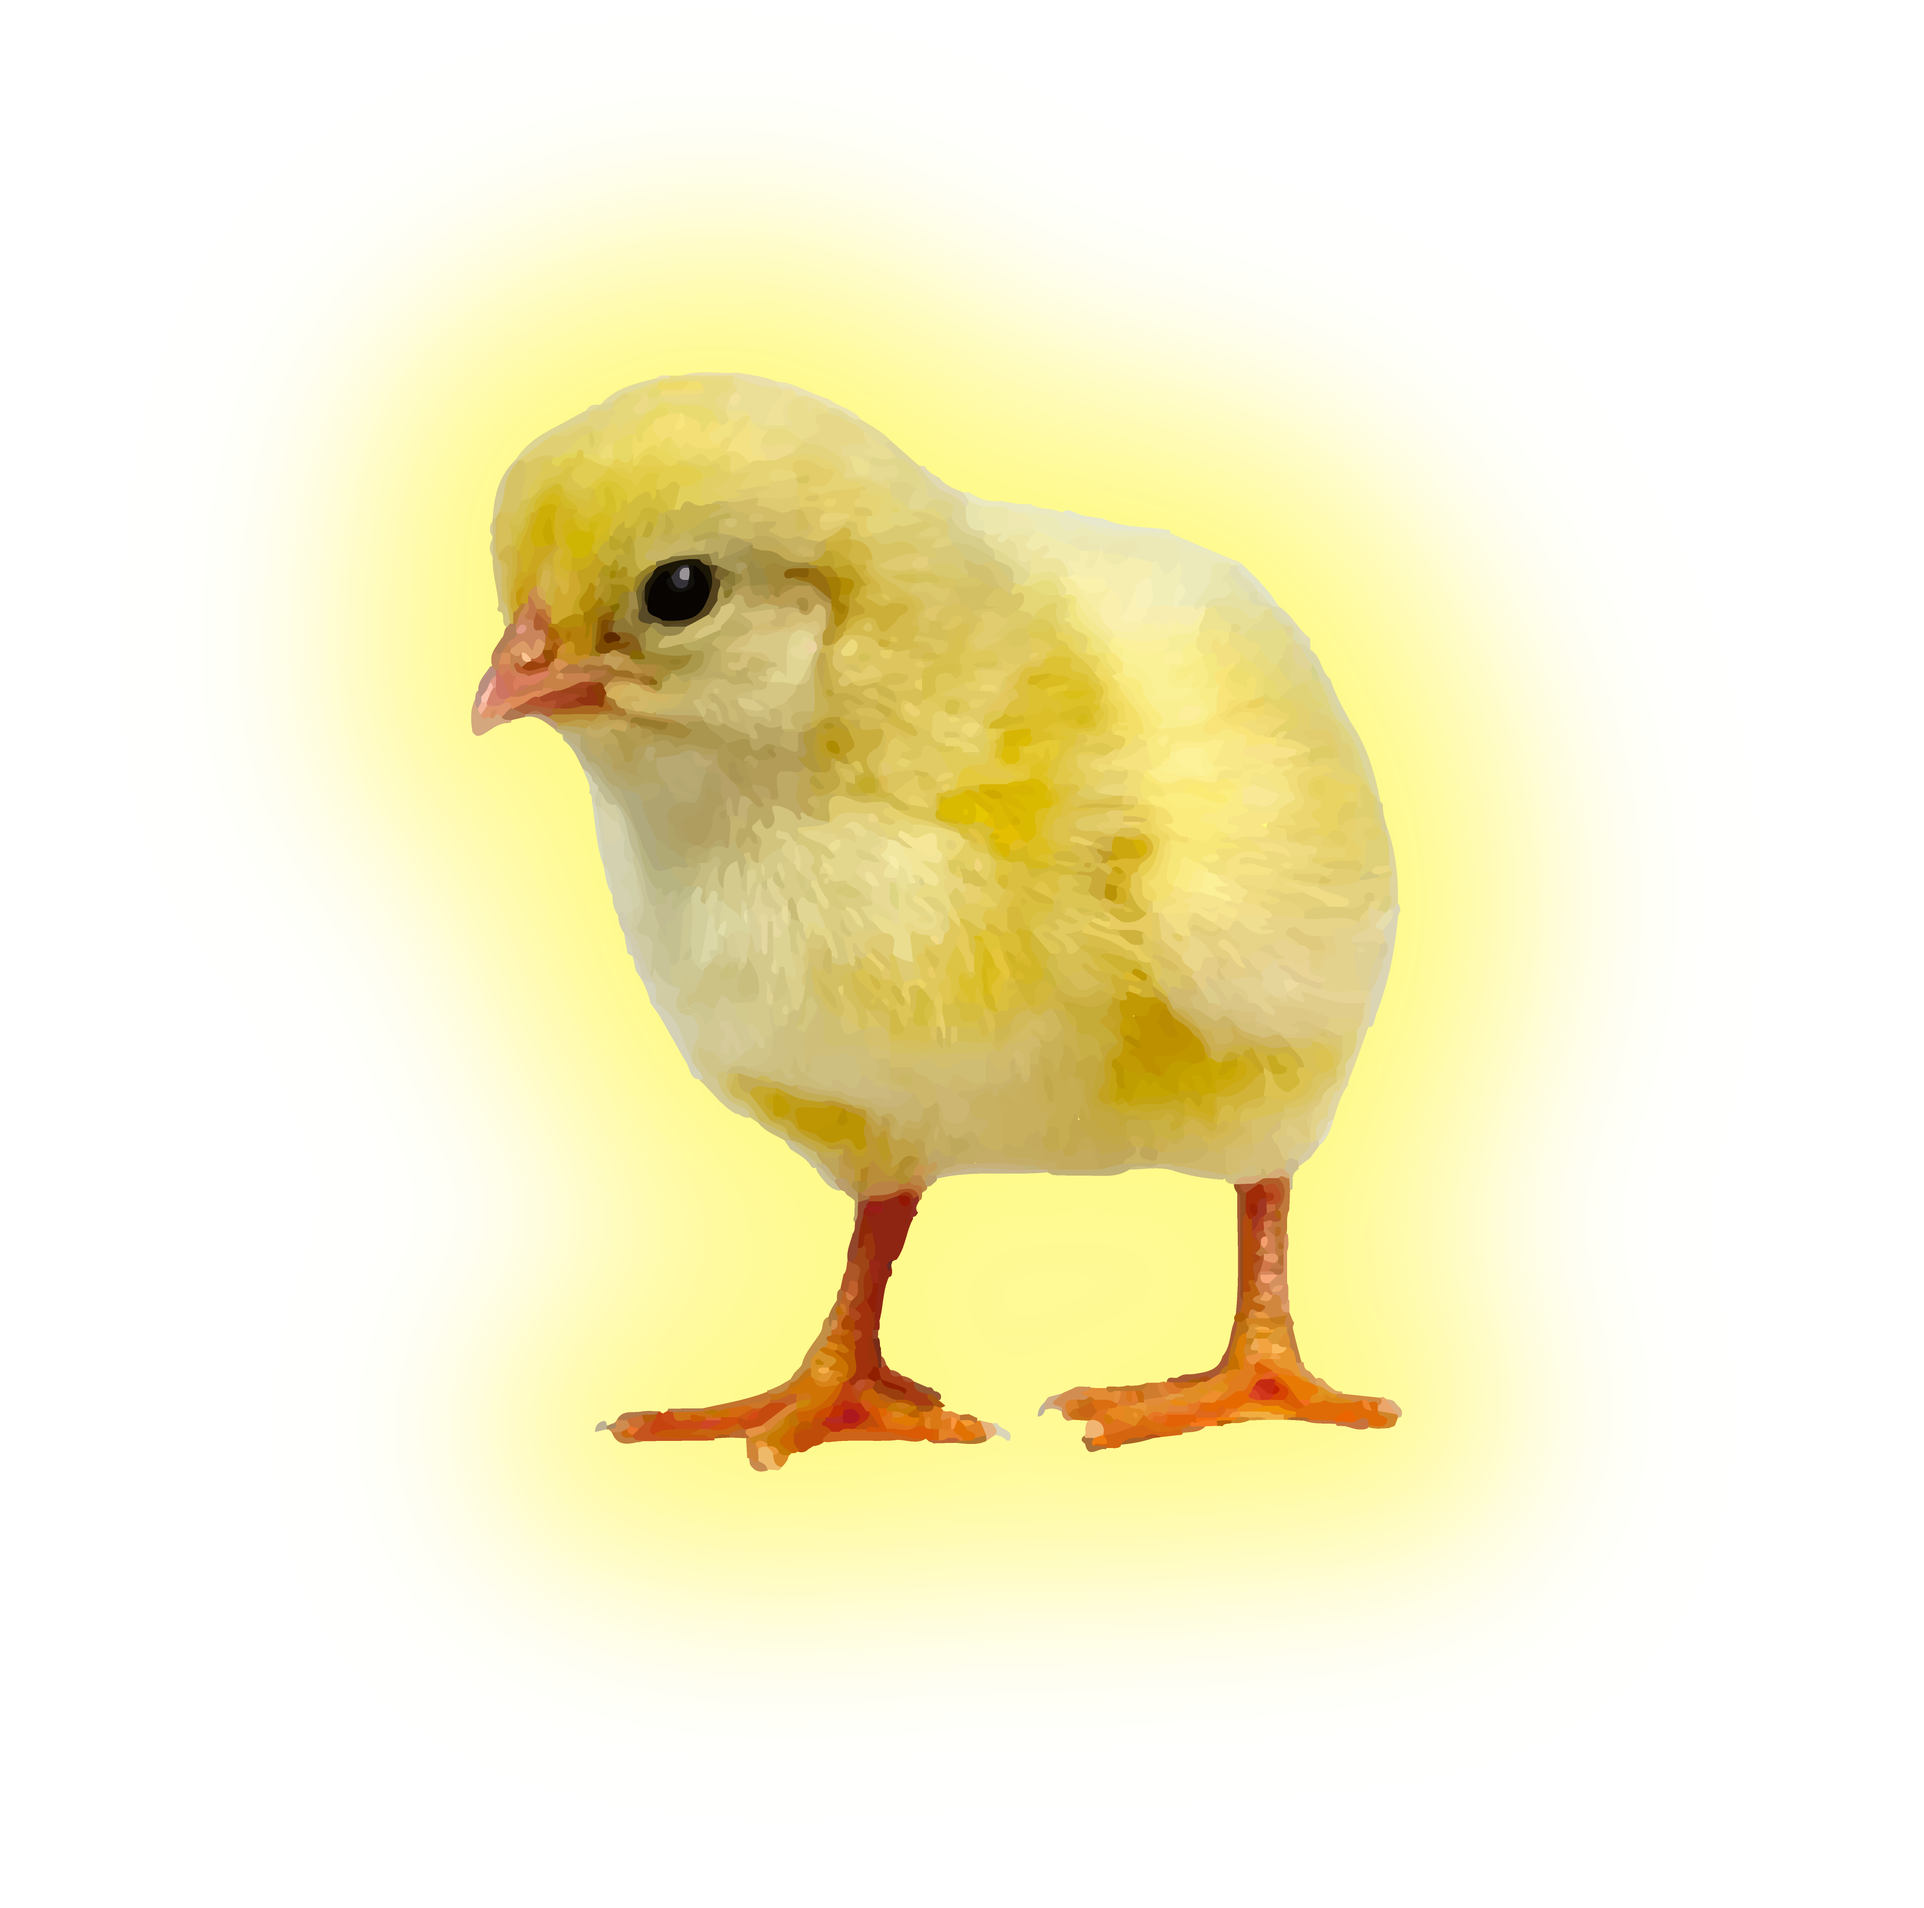
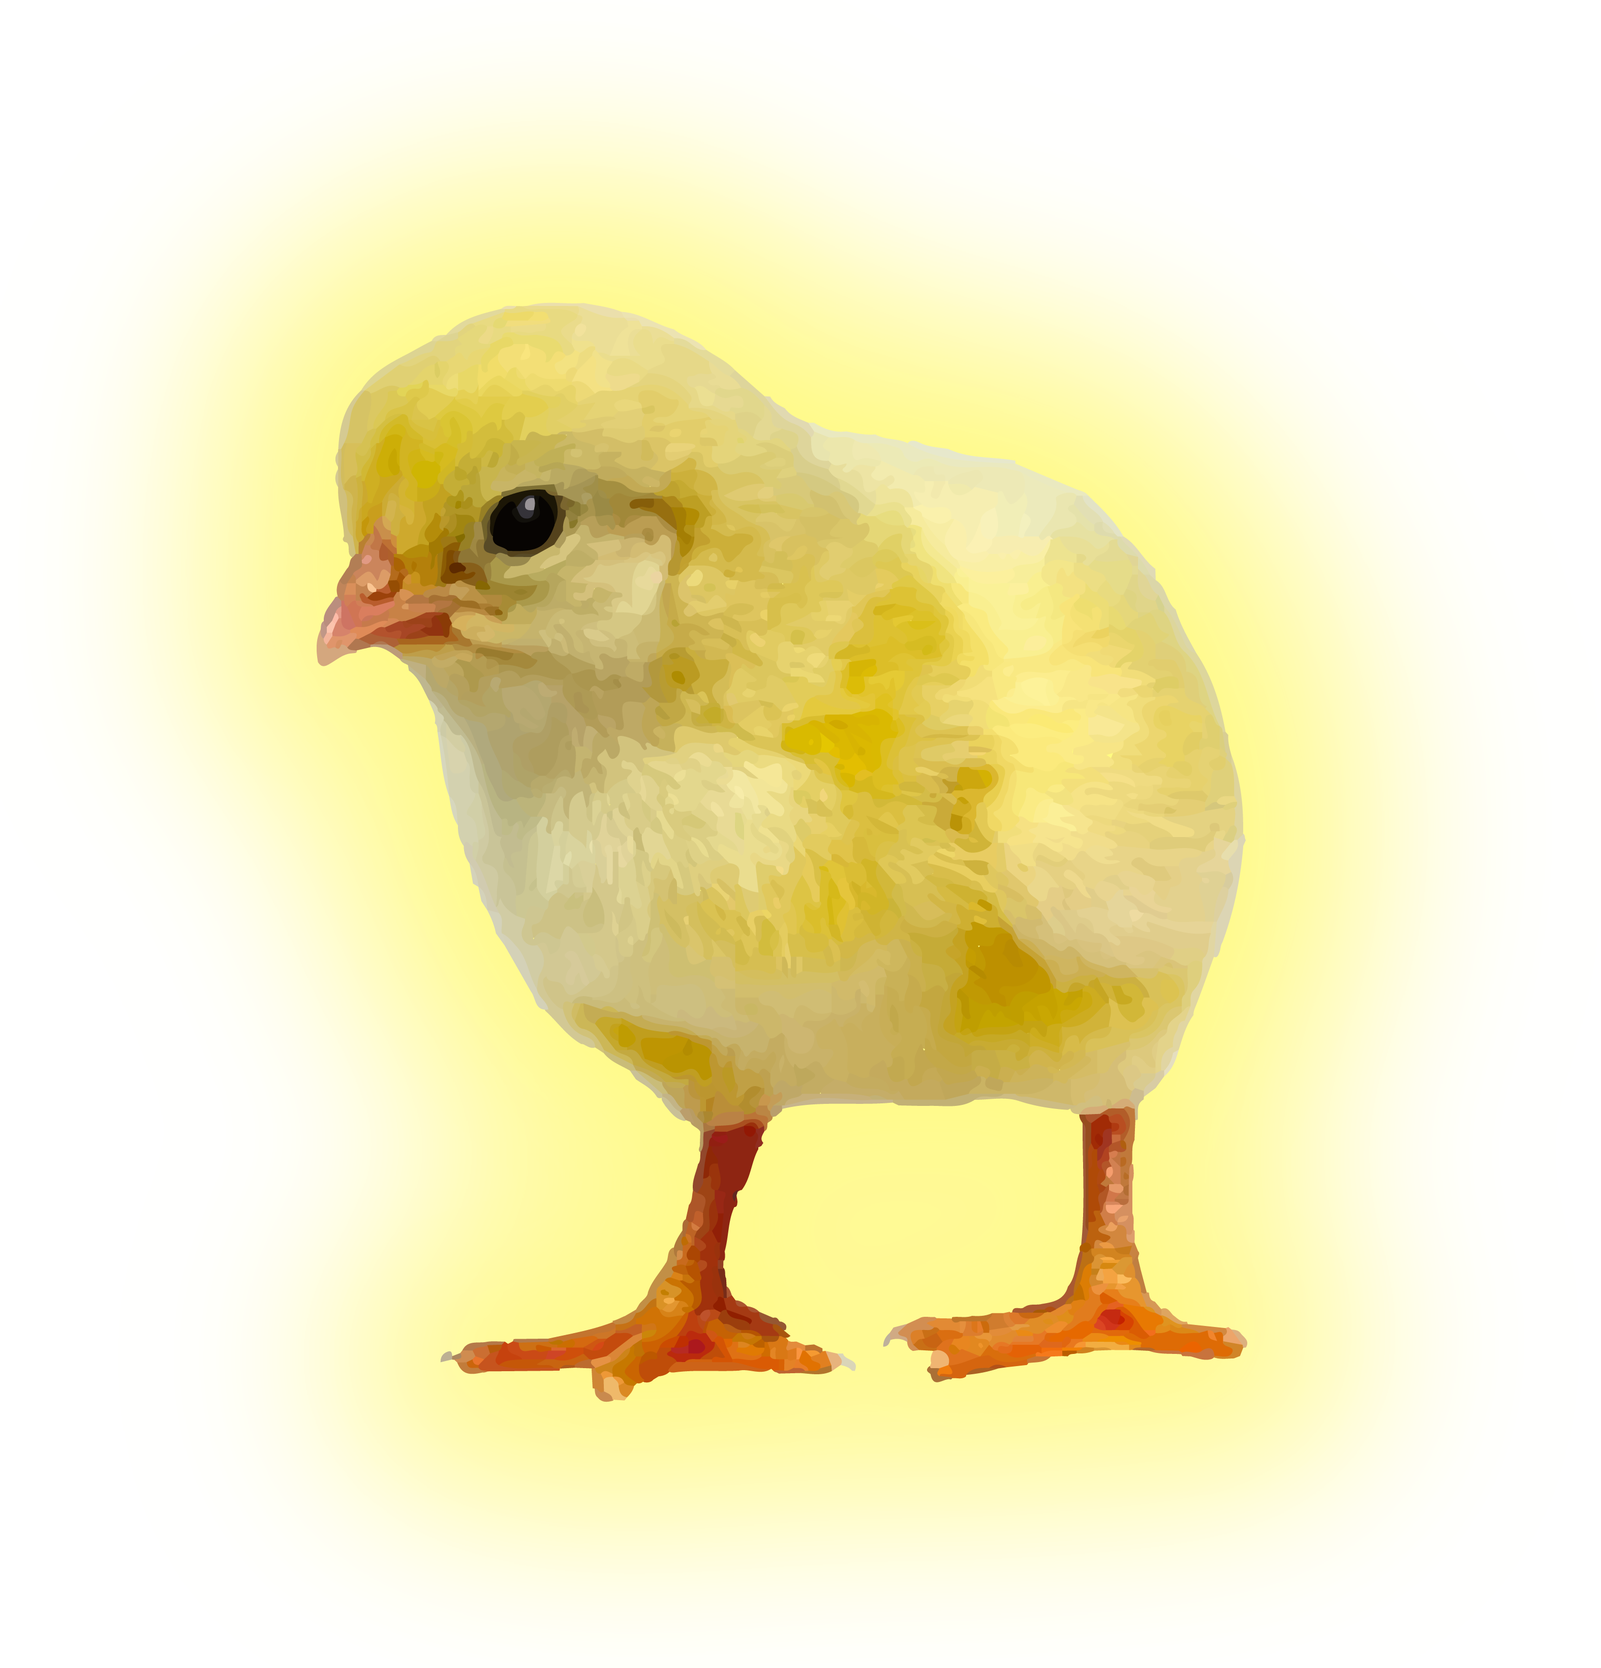
1900

diff --git a/index.html b/index.html
@@ -4,7 +4,7 @@
     <title>Saki Ji</title>
 		<meta charset="utf-8" />
     <meta name="viewport" content="width=device-width,initial-scale=1.0" />
-    <link rel="icon" href="#" />
+    <link rel="icon" href="光标-15.png" />
     <link rel="stylesheet" href="style.css"/>
   </head>
   <body>

diff --git a/saki/index.html b/saki/index.html
@@ -4,7 +4,7 @@
     <title>Saki Ji</title>
 		<meta charset="utf-8" />
     <meta name="viewport" content="width=device-width,initial-scale=1.0" />
-    <link rel="icon" href="#" />
+    <link rel="icon" href="光标-15.png" />
     <link rel="stylesheet" href="saki.css"/>
   </head>
   <body>

diff --git a/saki/saki.css b/saki/saki.css
@@ -29,5 +29,7 @@ p {
 }
 #chicken {
     position: absolute;
-    height: 800px;
+    height: 820px;
+    left: 24%;
+    top: 0px;
 }
